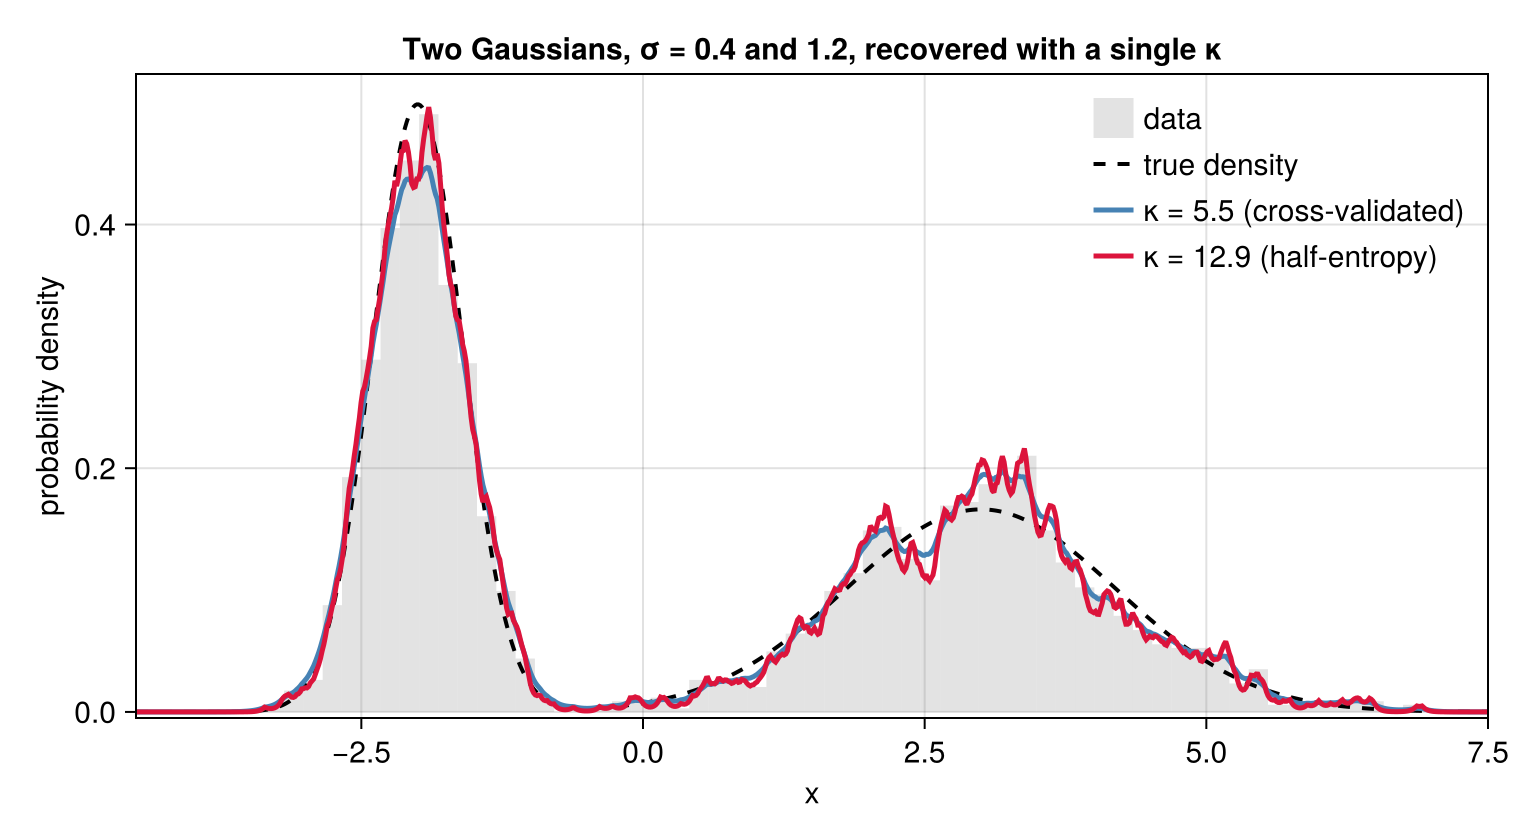
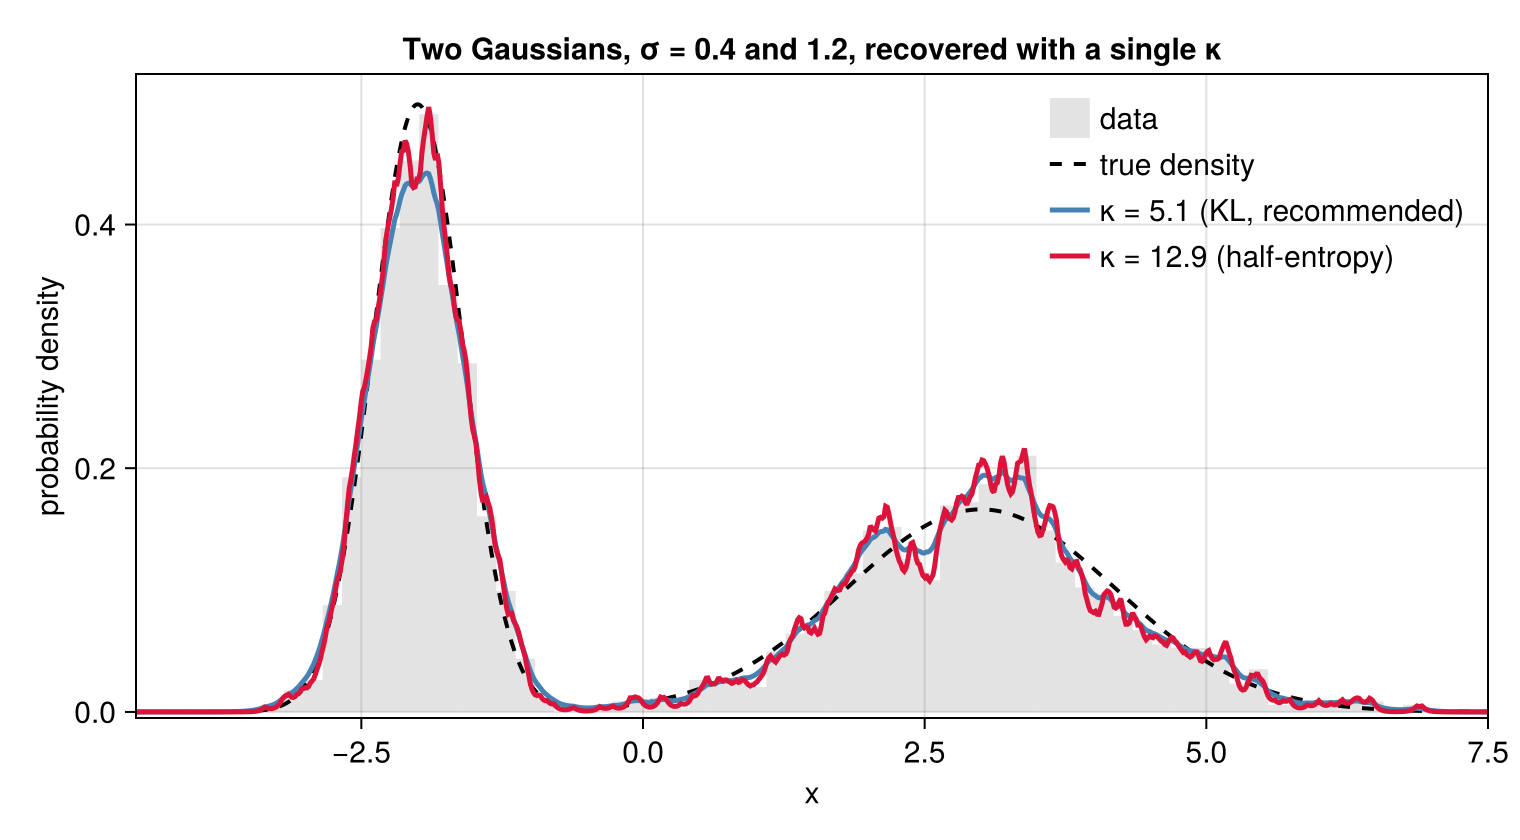
Add select_kappa_kl (KL cross-validation) as the default scale selector
Add a fourth automatic smoothing-scale selector, select_kappa_kl, which minimizes
the mean negative leave-one-out log-likelihood

    KLCV(κ) = -(1/N) Σᵢ wᵢ ln Q̂_{κ,-i}(xᵢ),

an estimate of KL(Q ‖ Q̂_κ) up to a κ-independent constant. It is the criterion
native to the estimator, whose action is itself the in-sample log-likelihood. It
reuses the same first-order leave-one-out densities as the least-squares selector
and omits the ∫Q̂² roughness term, so it is cheaper than select_kappa_cv while
selecting the same error-optimal κ ∝ N^{1/5} to leading order. Factor the shared
leave-one-out density into _loo_density and the grid-bracketed golden-section
search into _select_by_score, reused by both cross-validation selectors.

A head-to-head benchmark (benchmarks/) pits all four selectors against an
L1-optimal oracle across normal, bimodal, and skewed densities: select_kappa_kl
tracks the oracle most closely every time, so it is the recommended default.
Rename select_kappa → select_kappa_ms (minimum sensitivity) to free the bare name
and give the four selectors symmetric names, and update the README, docstrings,
tutorial, and benchmark accuracy table to recommend select_kappa_kl. The tutorial
figure is regenerated to contrast the recommended KL scale against the
over-resolving half-entropy scale.

Changed region(s): [[0.6803, 0.0929, 0.9586, 0.3405], [0.5875, 0.65, 0.6184, 0.681]]

diff --git a/docs/src/tutorial.md b/docs/src/tutorial.md
@@ -22,41 +22,68 @@ N = 2000
 x = [rand() < comps[1].w ? comps[1].μ + comps[1].σ * randn() :
                            comps[2].μ + comps[2].σ * randn() for _ in 1:N]
 
-ki = kappa_interval(x)                          # a principled scale + range (see below)
-d = DensityEstimate(x; κ = ki.κ)       # fit at the half-entropy scale
+κ = select_kappa_kl(x)                          # recommended scale (KL cross-validation)
+d = DensityEstimate(x; κ)              # fit at the recommended scale
 nothing # hide
 ```
 
 `d` is a callable density: `d(x)` returns ``Q(x)``. Plotting the
-estimate against the truth — here at the cross-validated scale (see [`select_kappa_cv`](@ref)
-below) and the half-entropy scale ``\kappa`` (the plotting code uses
+estimate against the truth — here at the recommended KL scale (see [`select_kappa_kl`](@ref)
+below) and, for contrast, the sharper half-entropy scale ``\kappa`` (the plotting code uses
 [Makie](https://docs.makie.org/), which is not a dependency of the package):
 
 ```julia
 using CairoMakie
-κcv = select_kappa_cv(x)
-d_cv = DensityEstimate(x; κ = κcv)
+ki = kappa_interval(x)
+d_half = DensityEstimate(x; κ = ki.κ)
 g = range(-4.5, 7.5; length = 800)
 lines(g, truepdf.(g); linestyle = :dash, label = "true density")
-lines!(g, d_cv.(g); label = "κ = $(round(κcv, digits=1)) (cross-validated)")
-lines!(g, d.(g); label = "κ = $(round(ki.κ, digits=1)) (half-entropy)")
+lines!(g, d.(g); label = "κ = $(round(κ, digits=1)) (KL, recommended)")
+lines!(g, d_half.(g); label = "κ = $(round(ki.κ, digits=1)) (half-entropy)")
 axislegend()
 ```
 
 ![Two-Gaussian mixture recovered with a single κ](assets/mixture_example.png)
 
-Both scales recover both peaks: the cross-validated ``\kappa`` is visibly smoother, the
+Both scales recover both peaks: the recommended KL ``\kappa`` is visibly smoother, the
 half-entropy ``\kappa`` sharper, but each resolves the narrow and the broad component at
 once. This is the key point: **`κ` is a resolution scale, not a component width.** Its
 reciprocal ``1/\kappa`` is smaller than either component's ``\sigma``, so the estimator
 resolves features of any larger width; the local width of ``Q`` is set by the data, not by
-``\kappa``. The two scales come from [`kappa_interval`](@ref)
-and [`select_kappa_cv`](@ref), both introduced next.
+``\kappa``. The selectors that produced these two scales — [`select_kappa_kl`](@ref) and
+[`kappa_interval`](@ref) — are introduced next.
 
 ## Choosing the smoothing scale
 
-To pick ``\kappa`` automatically, [`kappa_interval`](@ref) returns a principled scale with
-a plausible range. Its basis is that the reduced action ``g(\kappa) = S(\kappa) + W\ln\kappa``
+PenalizedDensity offers four automatic selectors. They split into two families: two that
+target *estimation error* (recommended for smooth data) and two that resolve *information*
+in the data (the right choice for heavily tied or discrete data). The **recommended
+default** is [`select_kappa_kl`](@ref), which minimizes a likelihood (Kullback–Leibler)
+cross-validation score:
+
+```@example tutorial
+κ_kl = select_kappa_kl(x)       # recommended: error-optimal, likelihood cross-validation
+```
+
+Its score is the leave-one-out log-likelihood ``-\tfrac1N\sum_i \ln \hat Q_{-i}(x_i)``, an
+estimate of ``\mathrm{KL}(Q \,\|\, \hat Q_\kappa)`` up to a constant; it is the criterion
+native to the estimator, whose action is itself a log-likelihood. A close relative,
+[`select_kappa_cv`](@ref), instead minimizes a least-squares (MISE) cross-validation score:
+
+```@example tutorial
+κ_cv = select_kappa_cv(x)       # least-squares cross-validation (MISE)
+```
+
+Both are evaluated analytically — each leave-one-out density comes from a first-order
+expansion of the fit, so no point-by-point refitting is needed — and to leading order they
+select the same ``\kappa \propto N^{1/5}``. Across a range of test densities `select_kappa_kl`
+tracks the error-optimal scale most closely (see `benchmarks/`) and is the cheaper of the
+two, which is why it is the default. Both assume a *continuous* underlying density; on
+heavily tied or coarsely rounded data their scores are unbounded as ``\kappa\to\infty``, and
+the two information-resolving selectors below are the better choice.
+
+The first information-resolving selector, [`kappa_interval`](@ref), returns a principled
+scale with a plausible range. Its basis is that the reduced action ``g(\kappa) = S(\kappa) + W\ln\kappa``
 (``W`` = total count) rises monotonically between two *exact* limits — ``W/2`` as
 ``\kappa\to0`` (all points merge into one lump) and ``W/2 + W H`` as ``\kappa\to\infty``
 (the ``N`` points become isolated), where ``H`` is the Shannon entropy of the data. The
@@ -76,29 +103,25 @@ resolved — and the shaded band is the plausible range:
 
 ![Reduced action rising between its two entropy limits](assets/action_entropy.png)
 
-[`select_kappa`](@ref) returns a related but distinct scale: the point of *minimum
-sensitivity*, where `|dS/d ln κ|` is smallest. Its derivative is computed analytically, so
-the result is free of the noise that finite-differencing the action curve would introduce.
-The two criteria generally select different scales. Both resolve *information*
-in the data rather than minimizing error, and on smooth densities they tend to over-resolve.
-
-When the goal is instead minimum mean integrated squared error (MISE), use
-[`select_kappa_cv`](@ref), which minimizes a least-squares cross-validation score:
+The second information-resolving selector, [`select_kappa_ms`](@ref), returns a related but
+distinct scale: the point of *minimum sensitivity*, where `|dS/d ln κ|` is smallest. Its
+derivative is computed analytically, so the result is free of the noise that
+finite-differencing the action curve would introduce.
 
 ```@example tutorial
-κ_cv = select_kappa_cv(x)       # error-optimal scale, usually finer than select_kappa
+κ_ms = select_kappa_ms(x)       # minimum-sensitivity scale
 ```
 
-Its score is an unbiased estimate of the integrated squared error `∫(Q̂ − Q)²`, evaluated
-analytically — the `∫Q̂²` term in closed form and each leave-one-out density from a first-order
-expansion, so no point-by-point refitting is needed. Cross-validation assumes a continuous
-underlying density; on heavily tied or coarsely rounded data it undersmooths, and the
-action-based selectors are the better choice there.
+`select_kappa_ms` and `kappa_interval` generally select different scales, but both resolve
+*information* in the data rather than minimizing error, and on smooth densities they tend to
+over-resolve — which is why the cross-validation selectors are recommended by default. Their
+value is on heavily tied or discrete data, where they stay bounded and the cross-validation
+scores do not.
 
 ## Goodness of fit
 
 Because the estimate is a genuine likelihood fit, you can ask how well a *specific* model
-distribution describes the data. Using the half-entropy fit `d`, [`chisq`](@ref) is a
+distribution describes the data. Using the fit `d` from above, [`chisq`](@ref) is a
 robust, binning-free ``\chi^2`` (the squared Hellinger distance between a trial density and
 the data):
 

diff --git a/benchmarks/README.md b/benchmarks/README.md
@@ -28,13 +28,18 @@ checked in; the first run resolves and installs the comparison packages.
 2. **Accuracy** — each method fits with its *own* automatic bandwidth selection (the quality
    a user gets out of the box) on samples from known densities. Reported as mean integrated
    absolute error (`L1 = ∫|Q̂ − Q|`) and mean integrated squared error (`ISE = ∫(Q̂ − Q)²`)
-   over many trials.
+   over many trials. `PenalizedDensity` uses `select_kappa_kl`, the winner of the selector
+   shootout below.
 
-3. **Scale-selection diagnostic** — for `PenalizedDensity`, the κ that `kappa_interval`
-   selects versus the κ (on a scan) that minimises `L1` against the true density. This
-   separates the estimator's accuracy from its automatic scale choice.
+3. **Selector shootout** — `PenalizedDensity` offers several automatic scale selectors; this
+   holds the estimator fixed and pits them head-to-head. The action-based selectors
+   (`select_kappa_ms`, minimum sensitivity; `kappa_interval`, half-entropy) resolve information
+   and their κ grows like `√N`; the cross-validation selectors (`select_kappa_cv`, LSCV;
+   `select_kappa_kl`, KL) target error and grow like `N^{1/5}`. Each row's `L1`/`ISE` is
+   compared against the `oracle` κ that minimises `L1` on a scan — the best the estimator can
+   do at any fixed scale.
 
-## Interpreting two things you will see
+## Interpreting what you will see
 
 - **`rtol = 0` runtime is not robust at large `N`.** The tridiagonal solve depends on the
   gaps between adjacent points through `κ · Δx`. With `rtol = 0` nothing is merged, so a
@@ -44,9 +49,15 @@ checked in; the first run resolves and installs the comparison packages.
   the smoothing length that carries no independent information — which bounds the
   conditioning and keeps the fit fast. Use `rtol > 0` on large, densely packed samples.
 
-- **`kappa_interval` over-resolves smooth data.** The half-entropy scale it selects grows
-  roughly like `√N`, faster than the mean-integrated-error-optimal scale (`~N^{1/5}`), so it
-  chooses a finer κ than minimises `L1`/`ISE` for smooth unimodal densities. The
-  `best κ` column shows the estimator itself is competitive with — often better than — the
-  kernel methods once κ is well chosen; the gap is in the automatic selection, not the
-  estimator.
+- **The action-based selectors over-resolve smooth data.** The minimum-sensitivity and
+  half-entropy scales grow like `√N`, faster than the mean-integrated-error-optimal scale
+  (`~N^{1/5}`), so they choose a finer κ than minimises `L1`/`ISE`. They are the right choice
+  only for heavily tied or discrete data, where the cross-validation scores are unbounded as
+  `κ → ∞` (see the docstrings).
+
+- **`select_kappa_kl` is the recommended default.** Across the test densities it sits closest
+  to the oracle in `L1` — tracking the oracle κ tightly even on the skewed log-normal, where
+  `select_kappa_cv` over-resolves — and it is the cheapest cross-validation score to compute
+  (it reuses the leave-one-out densities and omits the `∫Q̂²` roughness term). The shootout's
+  `oracle` column also shows the estimator is competitive with, and often better than, the
+  kernel methods once κ is well chosen.

diff --git a/README.md b/README.md
@@ -13,8 +13,9 @@ binning, using the penalized maximum-likelihood scalar-field method of
 
 The density is written `Q(x) = ψ(x)²`, and the amplitude `ψ` maximizes the likelihood of
 the data subject to a smoothness penalty and normalization `∫Q dx = 1`. A single scale
-`κ` sets the resolution and can be chosen automatically as the scale of minimum sensitivity
-of the fit. Sorting the data and writing `ψ` as rising and falling exponentials
+`κ` sets the resolution and can be chosen automatically; the recommended default is
+likelihood (KL) cross-validation, with least-squares cross-validation and two action-based
+criteria as alternatives. Sorting the data and writing `ψ` as rising and falling exponentials
 between adjacent points reduces the estimator to a symmetric tridiagonal problem solved in
 `O(N)` time. A robust, binning-free χ² and its reference distribution let you test
 candidate models for significance.
@@ -23,8 +24,8 @@ candidate models for significance.
 using PenalizedDensity
 
 x = randn(500)                       # samples from an unknown distribution
-κ = select_kappa(x)                  # principled smoothing scale (minimum sensitivity)
-                                     # or select_kappa_cv(x) for the MISE-optimal scale
+κ = select_kappa_kl(x)               # recommended smoothing scale (KL cross-validation);
+                                     # select_kappa_cv, select_kappa_ms, kappa_interval also exist
 d = DensityEstimate(x; κ)   # callable: d(x) is the density Q(x)
 
 d(0.0)                               # density at a point